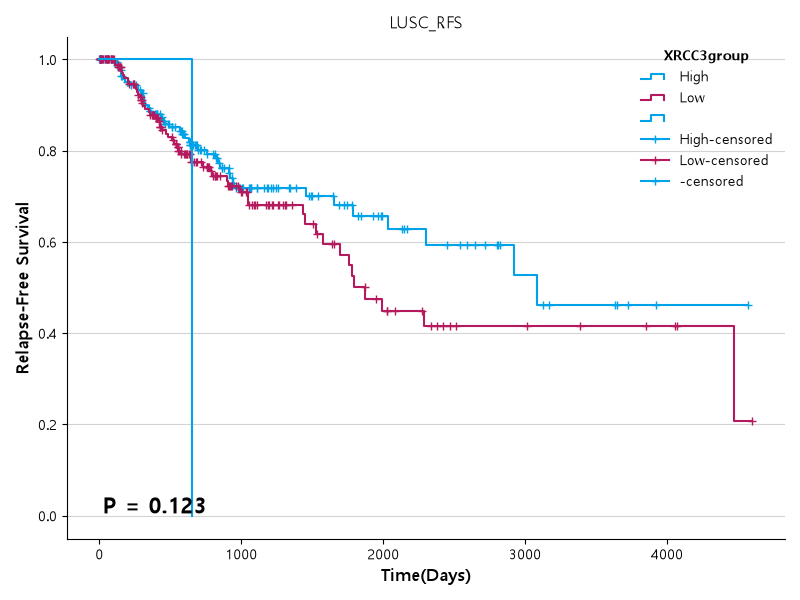
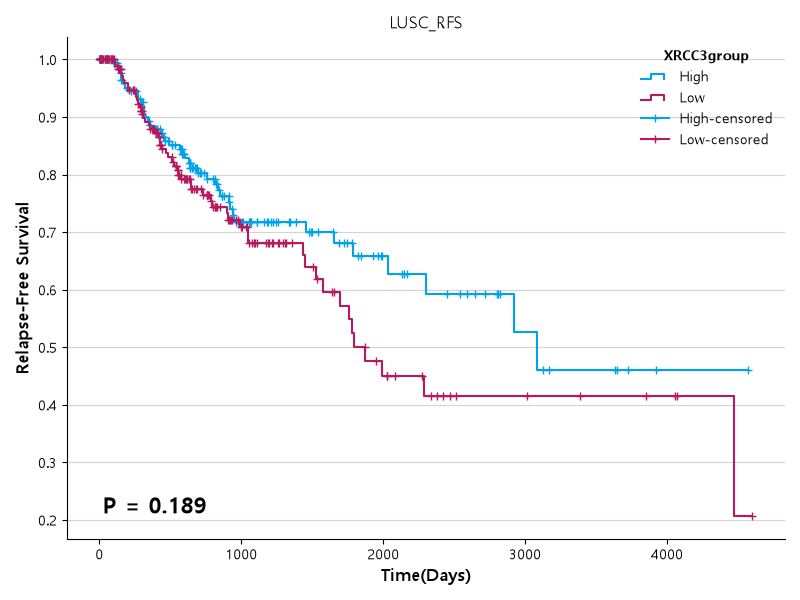
카플란 메이어 해결

diff --git a/analysis_v2.py b/analysis_v2.py
@@ -46,11 +46,11 @@ def load_and_merge_data(target, onco_file, clin_file):
     print("  [진단 로그] 1-1. CSV 파일 로드 완료.")
     
     print("  [진단 로그] 1-2. 마스터 SAV 파일 로드 시도 중 (pyreadstat)...")
-    # [핵심 수정] SPSS 사용자 정의 결측치(User-Missing)를 NaN으로 완벽 변환 (999, -99 등)
+    # [핵심] SPSS 사용자 정의 결측치(User-Missing)를 NaN으로 완벽 변환 (999, -99 등)
     df_clin, meta = pyreadstat.read_sav(clin_file, user_missing=True)
     print("  [진단 로그] 1-2. SAV 파일 로드 완료.")
     
-    # [중요 복구] 기존 SAV 파일에 동일한 유전자 컬럼이 있다면 충돌 방지를 위해 먼저 삭제 (x, y 접미사 생성 방지)
+    # [중요] 기존 SAV 파일에 동일한 유전자 컬럼이 있다면 충돌 방지를 위해 먼저 삭제 (x, y 접미사 생성 방지)
     new_cols = [f'{target}expression', f'{target}group']
     cols_to_drop = [col for col in new_cols if col in df_clin.columns]
     if cols_to_drop:
@@ -61,7 +61,7 @@ def load_and_merge_data(target, onco_file, clin_file):
     df_merged = pd.merge(df_clin, df_onco, on='sampleID', how='left')
     print("  [진단 로그] 1-3. 병합 완료.")
     
-    # [중요 복구] 병합된 최신 데이터를 다시 SAV와 CSV로 물리적으로 저장
+    # [중요] 병합된 최신 데이터를 다시 SAV와 CSV로 물리적으로 저장
     print("  [진단 로그] 1-4. 병합본을 마스터 SAV 파일로 저장 진행 중...")
     pyreadstat.write_sav(df_merged, clin_file)
     print("  [진단 로그] 1-4. SAV 파일 물리적 저장 완료.")
@@ -91,29 +91,27 @@ def analyze_chi_square(df, target_col='gene_group', row_vars=None):
         
     table1_data = []
     
-    # [핵심 수술] 결측치로 취급할 가짜 범주 텍스트 리스트
+    # 결측치로 취급할 가짜 범주 텍스트 리스트
     na_strings = ['not reported', '[not available]', 'unknown', 'na', 'n/a', '', 'none']
     
     for var in row_vars:
         if var not in df.columns:
             continue
         
-        # 1. 가짜 범주를 NaN으로 변환 후 순수 데이터만 추출
+        # 가짜 범주를 NaN으로 변환 후 순수 데이터만 추출
         df_clean = df[[var, target_col]].copy()
         df_clean[var] = df_clean[var].apply(lambda x: np.nan if pd.isna(x) or str(x).strip().lower() in na_strings else x)
         df_clean = df_clean.dropna()
         
-        # 2. 범주가 1개뿐이거나 환자가 없으면 카이제곱 검정 불가 -> 건너뜀
         if df_clean[var].nunique() <= 1 or df_clean[target_col].nunique() <= 1:
             continue
 
         crosstab_stat = pd.crosstab(df_clean[var], df_clean[target_col])
         
         try:
-            # [핵심 수술] 파이썬의 과잉 친절(Yates 연속성 보정)을 끄고 순정 Pearson 카이제곱 계산 (SPSS와 100% 일치)
+            # 파이썬의 과잉 친절(Yates 연속성 보정)을 끄고 순정 Pearson 카이제곱 계산
             chi2, p_val, dof, expected = stats.chi2_contingency(crosstab_stat, correction=False)
             
-            # 3. [조기 경보 시스템] 기대 빈도 5 미만 셀 감지 (P-value 신뢰도 하락)
             min_expected = expected.min()
             warning_msg = ""
             if min_expected < 5:
@@ -148,16 +146,15 @@ def analyze_bivariate_correlation(df, gene_list):
     if len(valid_genes) < 2:
         return pd.DataFrame()
         
-    # [중요 추가] "Not Reported" 등 문자열 찌꺼기를 완벽한 결측치(NaN)로 강제 변환
+    # "Not Reported" 등 문자열 찌꺼기를 완벽한 결측치(NaN)로 강제 변환
     df_numeric = df[valid_genes].apply(pd.to_numeric, errors='coerce')
     
-    # Pandas의 corr() 함수는 기본적으로 Pairwise Deletion을 수행합니다.
     pearson_matrix = df_numeric.corr(method='pearson')
     print("[Pearson 상관계수 행렬 (SPSS Pairwise 방식)]")
     print(pearson_matrix.round(3))
     print("\n")
     
-    # 엑셀 표(Table 2) 조립 로직 (논문용 콤팩트 출력: R, P-value 2행 구조)
+    # 논문용 콤팩트 출력: R, P-value 2행 구조
     table2_data = []
     for i in valid_genes:
         row_r = [i, 'R']
@@ -167,10 +164,7 @@ def analyze_bivariate_correlation(df, gene_list):
                 row_r.append("1")
                 row_p.append("")
             else:
-                # 두 변수(i, j)만 쏙 뽑아서 결측치가 없는 쌍만 남김 (Pairwise Deletion)
                 pair_data = df_numeric[[i, j]].dropna()
-                
-                # [중요 방어] 계산 가능한 2명 이상이면서, 두 변수 모두 분산이 0이 아닐 때만 계산
                 if len(pair_data) > 1 and pair_data[i].nunique() > 1 and pair_data[j].nunique() > 1:
                     r_val, p_val = stats.pearsonr(pair_data[i], pair_data[j])
                     row_r.append(f"{r_val:.3f}")
@@ -206,14 +200,12 @@ def analyze_glm_multivariate(df, mode, expr_col='target_expression', group_col='
         valid_base_vars = [v for v in base_vars if v in df.columns]
         
         if target_var not in df.columns:
-            print(f"  [경고] '{target_var}' 컬럼이 없어 {model_name} 모델 분석을 건너뜁니다.")
             continue
             
         vars_to_use = [expr_col] + valid_base_vars + [target_var]
         df_clean = df[vars_to_use].dropna()
         
         if df_clean.empty:
-            print(f"  [경고] 결측치 제거 후 {model_name} 모델 분석할 데이터가 없습니다.")
             continue
             
         predictors = []
@@ -253,7 +245,6 @@ def analyze_glm_multivariate(df, mode, expr_col='target_expression', group_col='
         except Exception as e:
             print(f"{model_name} 다변량 분석 중 오류 발생: {e}\n")
             
-    print("\n")
     if not all_table4_data:
         return pd.DataFrame()
         
@@ -265,26 +256,23 @@ def analyze_kaplan_meier(target, df, mode, save_dir, group_col='gene_group', plo
         print("  [경고] KM 생존 분석에 필요한 데이터가 없습니다.")
         return pd.DataFrame()
         
-    df_km = df.dropna(subset=[group_col, 'OS.time', 'OS'])
+    df_km = df.copy()
+    
+    # [핵심] 선생님 지시: 결측치 처리 원복 & High/Low만 명확히 필터링
+    df_km = df_km[df_km[group_col].isin(['High', 'Low'])]
+    df_km = df_km.dropna(subset=['OS.time', 'OS'])
+    
     if df_km.empty:
         return pd.DataFrame()
         
-    # Table 5 데이터를 담을 리스트
     table5_data = []
 
-    # 한글 폰트 및 스타일 설정
     plt.rcParams['font.family'] = 'Malgun Gothic'
     plt.rcParams['axes.unicode_minus'] = False
     
     kmf = KaplanMeierFitter()
     
-    raw_groups = df_km[group_col].unique()
-    groups = []
-    if 'High' in raw_groups: groups.append('High')
-    if 'Low' in raw_groups: groups.append('Low')
-    for g in sorted(raw_groups):
-        if g not in groups:
-            groups.append(g)
+    groups = ['High', 'Low'] if all(g in df_km[group_col].values for g in ['High', 'Low']) else df_km[group_col].unique()
             
     colors = ['#00a2e8', '#b51a5e']  
     color_map = {'High': '#00a2e8', 'Low': '#b51a5e'}
@@ -352,11 +340,11 @@ def analyze_kaplan_meier(target, df, mode, save_dir, group_col='gene_group', plo
                 labels_os.append(f'{group}-censored')
             
     if len(groups) > 1:
-        # [수정] 2그룹인 경우 OncoLnc/R과 동일한 방식을 사용하기 위해 logrank_test 명시적 호출
         if len(groups) == 2:
             mask0 = (df_km[group_col] == groups[0])
-            res_os = logrank_test(df_km.loc[mask0, 'OS.time'], df_km.loc[~mask0, 'OS.time'],
-                                event_observed_A=df_km.loc[mask0, 'OS'], event_observed_B=df_km.loc[~mask0, 'OS'])
+            mask1 = (df_km[group_col] == groups[1])
+            res_os = logrank_test(df_km.loc[mask0, 'OS.time'], df_km.loc[mask1, 'OS.time'],
+                                event_observed_A=df_km.loc[mask0, 'OS'], event_observed_B=df_km.loc[mask1, 'OS'])
         else:
             res_os = multivariate_logrank_test(df_km['OS.time'], df_km[group_col], df_km['OS'])
             
@@ -364,7 +352,6 @@ def analyze_kaplan_meier(target, df, mode, save_dir, group_col='gene_group', plo
         chi2_os = res_os.test_statistic
         p_str_os = f"{p_val_os:.3f}" if p_val_os >= 0.001 else "<0.001"
         
-        # Table 5 데이터 저장
         table5_data.append(["Overall Survival (OS)", mode, target, f"{chi2_os:.3f}", p_str_os])
         print(f"  [OS Log-rank Test] Chi-square: {chi2_os:.3f}, p-value: {p_str_os}")
         
@@ -390,7 +377,12 @@ def analyze_kaplan_meier(target, df, mode, save_dir, group_col='gene_group', plo
         
     # ---------------- RFS 분석 ----------------
     if 'RFS.time' in df.columns and 'RFS' in df.columns:
-        df_rfs = df.dropna(subset=[group_col, 'RFS.time', 'RFS']) # df_km 대신 원본에서 독립적으로 subset 구성
+        df_rfs = df.copy()
+        
+        # 선생님 지시: 결측치 처리 원복 & High/Low만 명확히 필터링
+        df_rfs = df_rfs[df_rfs[group_col].isin(['High', 'Low'])]
+        df_rfs = df_rfs.dropna(subset=['RFS.time', 'RFS'])
+        
         if not df_rfs.empty:
             plt.figure(figsize=(8, 6)) 
             ax_rfs = plt.gca()
@@ -438,11 +430,11 @@ def analyze_kaplan_meier(target, df, mode, save_dir, group_col='gene_group', plo
                     
             rfs_groups = df_rfs[group_col].unique()
             if len(rfs_groups) > 1:
-                # [수정] 2그룹인 경우 logrank_test 명시적 호출
                 if len(rfs_groups) == 2:
                     mask0 = (df_rfs[group_col] == rfs_groups[0])
-                    res_rfs = logrank_test(df_rfs.loc[mask0, 'RFS.time'], df_rfs.loc[~mask0, 'RFS.time'],
-                                        event_observed_A=df_rfs.loc[mask0, 'RFS'], event_observed_B=df_rfs.loc[~mask0, 'RFS'])
+                    mask1 = (df_rfs[group_col] == rfs_groups[1])
+                    res_rfs = logrank_test(df_rfs.loc[mask0, 'RFS.time'], df_rfs.loc[mask1, 'RFS.time'],
+                                        event_observed_A=df_rfs.loc[mask0, 'RFS'], event_observed_B=df_rfs.loc[mask1, 'RFS'])
                 else:
                     res_rfs = multivariate_logrank_test(df_rfs['RFS.time'], df_rfs[group_col], df_rfs['RFS'])
                     
@@ -450,7 +442,6 @@ def analyze_kaplan_meier(target, df, mode, save_dir, group_col='gene_group', plo
                 chi2_rfs = res_rfs.test_statistic
                 p_str_rfs = f"{p_val_rfs:.3f}" if p_val_rfs >= 0.001 else "<0.001"
                 
-                # Table 5 데이터 저장
                 table5_data.append(["Relapse-Free Survival (RFS)", mode, target, f"{chi2_rfs:.3f}", p_str_rfs])
                 print(f"  [RFS Log-rank Test] Chi-square: {chi2_rfs:.3f}, p-value: {p_str_rfs}")
                 
@@ -474,7 +465,6 @@ def analyze_kaplan_meier(target, df, mode, save_dir, group_col='gene_group', plo
             plt.close()
             print(f"Kaplan-Meier (RFS) 이미지 저장 완료: '{km_plot_path_rfs}'\n")
 
-    # 수집된 Table 5 데이터를 DataFrame으로 변환 반환
     df_table5 = pd.DataFrame(table5_data, columns=["Survival Type", "Cancer Type", "Target", "Chi-square", "P-value"])
     return df_table5
 
@@ -594,12 +584,10 @@ if __name__ == "__main__":
             
             print(f"\n[{target_gene} 유전자 분석 시작]")
             
-            # 1. 병합 또는 기존 데이터 로드
             if csv_file:
                 merged_df = load_and_merge_data(target=target_gene, onco_file=csv_file, clin_file=master_sav_path)
             else:
                 print(f"--- 1. 기존 데이터 로드 (Target: {target_gene}, 병합 과정 건너뜀) ---")
-                # [핵심 수정] 기존 데이터 로드 시에도 SPSS 결측치 완벽 처리 적용
                 merged_df, _ = pyreadstat.read_sav(master_sav_path, user_missing=True)
             
             if group_col_name not in merged_df.columns:
@@ -607,13 +595,9 @@ if __name__ == "__main__":
                 print("="*60)
                 continue
             
-            # 2. 분석 및 엑셀 표 데이터 생성
+            # 분석 파트
             df_table1 = analyze_chi_square(merged_df, target_col=group_col_name)
             
-            # =========================================================
-            # [변수 선언 및 전처리부] 상관분석(Correlation) 설정
-            # =========================================================
-            # 1. 연속형 변수 세팅 (이진화 불필요) 및 2. 범주형(문자열) 변수 세팅 (이진화 필요)
             if mode == "LUAD":
                 gene_vars = ['KrasExpression', 'TP53Expression', 'ALKExpression', 'BRAFExpression']
                 corr_continuous = [expr_col_name, 'number_pack_years_smoked', 'age_at_initial_pathologic_diagnosis'] + gene_vars
@@ -625,22 +609,13 @@ if __name__ == "__main__":
             
             corr_processed_binary = []
             
-            # 3. 이진화(Binarization) 일괄 수행 (정밀 필터링 적용)
             def encode_mutation(val):
                 if pd.isna(val):
                     return np.nan
-                
                 v_str = str(val).strip().lower()
-                
-                # 1) 완벽한 야생형 (0)
-                if v_str in ['none', 'wt', 'wildtype']:
-                    return 0
-                # 2) 알 수 없는 결측치 문자열 (NaN 처리하여 쌍별 분석에서 완벽히 제외)
-                elif v_str in ['not reported', '[not available]', 'unknown', 'na', 'n/a', '']:
-                    return np.nan
-                # 3) 그 외 명확한 돌연변이 (1)
-                else:
-                    return 1
+                if v_str in ['none', 'wt', 'wildtype']: return 0
+                elif v_str in ['not reported', '[not available]', 'unknown', 'na', 'n/a', '']: return np.nan
+                else: return 1
 
             for mut_var in corr_binary_targets:
                 if mut_var in merged_df.columns:
@@ -649,16 +624,12 @@ if __name__ == "__main__":
                     corr_processed_binary.append(bin_col_name)
                     print(f"  [안내] {mut_var} 데이터를 이진수(0=WT, 1=Mut, 제외=NaN)로 정밀 변환 완료.")
             
-            # 4. 최종 상관분석 투입 리스트 통합
             final_corr_genes = corr_continuous + corr_processed_binary
             
-            # 상관분석 실행
             df_table2 = analyze_bivariate_correlation(merged_df, gene_list=final_corr_genes)
-            # =========================================================
             
             df_table4 = analyze_glm_multivariate(merged_df, mode, expr_col=expr_col_name, group_col=group_col_name)
             
-            # [수정] Table 5 데이터를 받아옴
             df_table5 = analyze_kaplan_meier(target_gene, merged_df, mode, plot_base_dir, group_col=group_col_name, plot_type=CURRENT_PLOT_TYPE)
             
             age_col = 'age_at_initial_pathologic_diagnosis' if mode == "LUAD" else 'age'
@@ -672,7 +643,6 @@ if __name__ == "__main__":
                 continuous_vars=cox_continuous
             )
             
-            # 3. 분석 결과를 Excel 파일로 예쁘게 저장 (Table 5 추가)
             excel_save_path = os.path.join(result_dir, f"{target_gene}_{mode}_Tables.xlsx")
             if os.path.exists(excel_save_path):
                 try: os.remove(excel_save_path)
